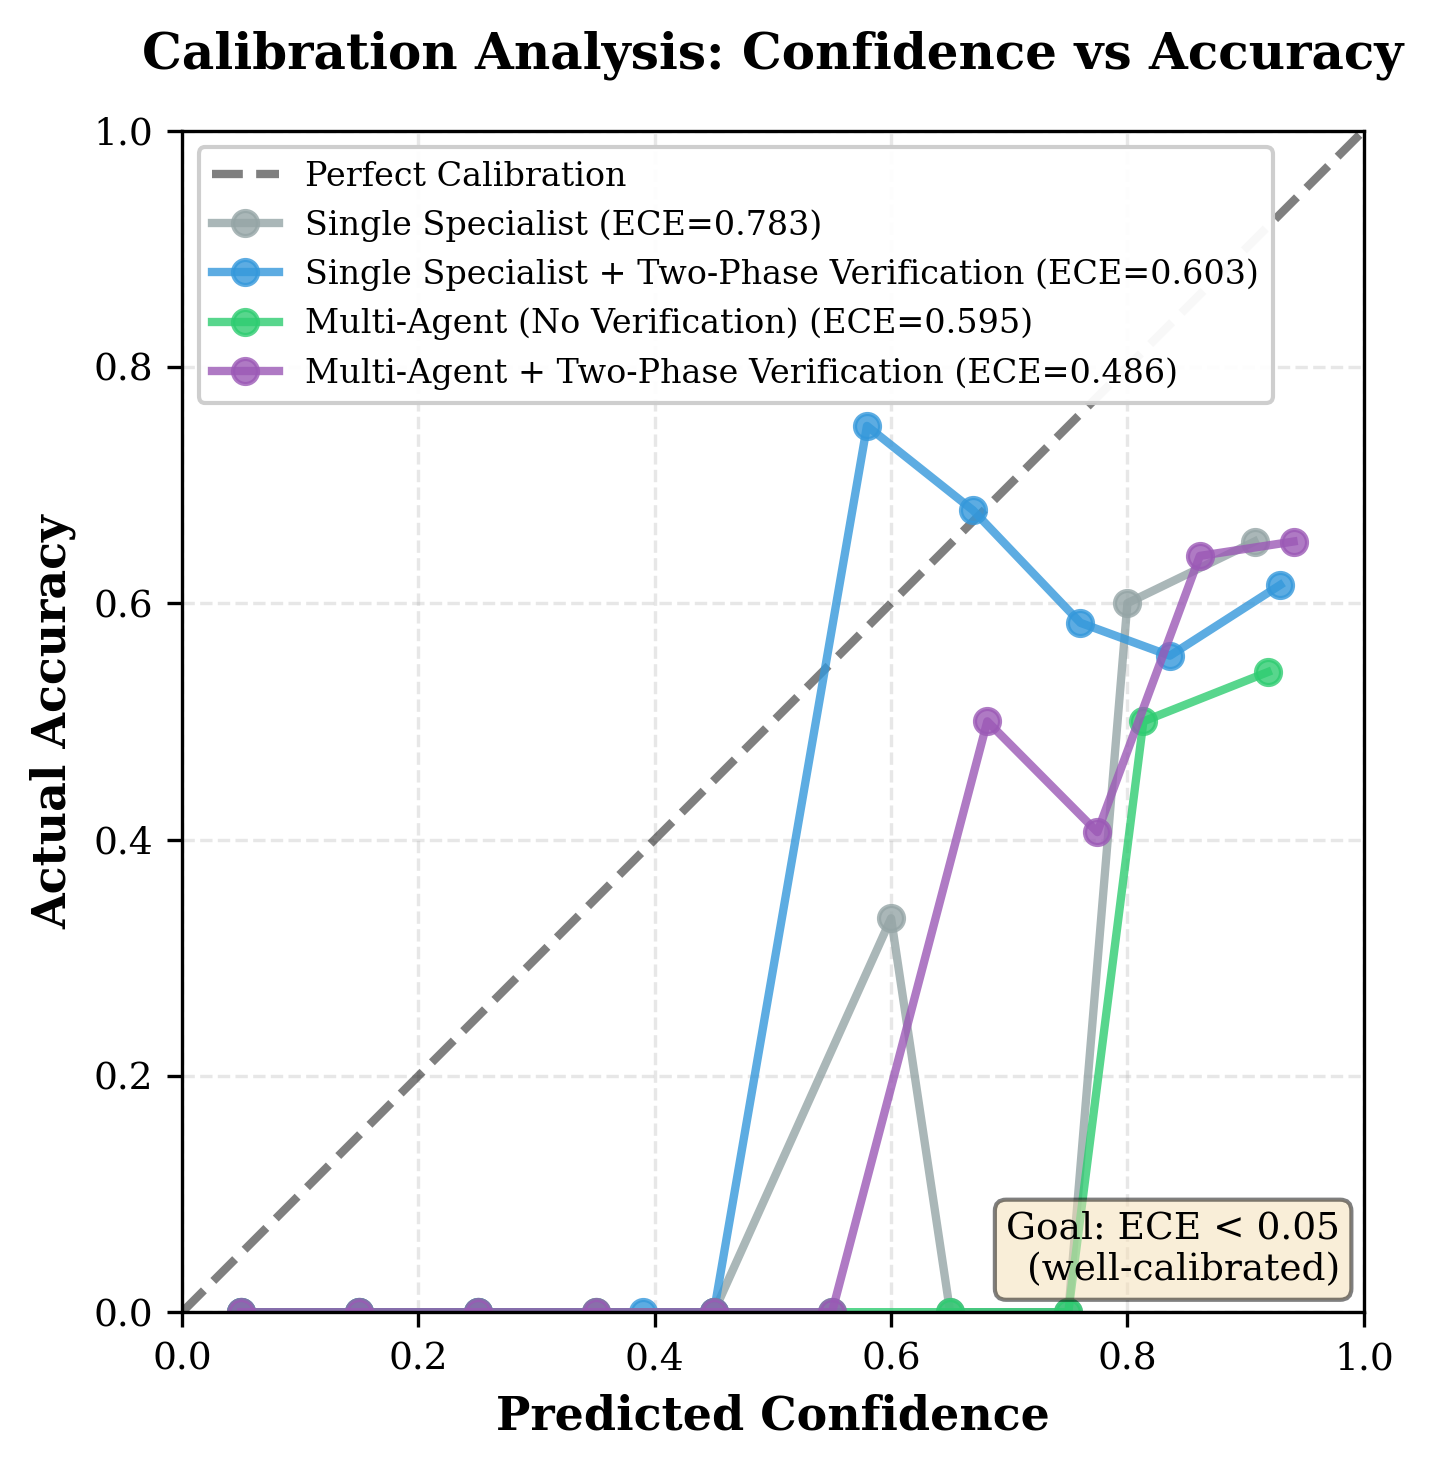
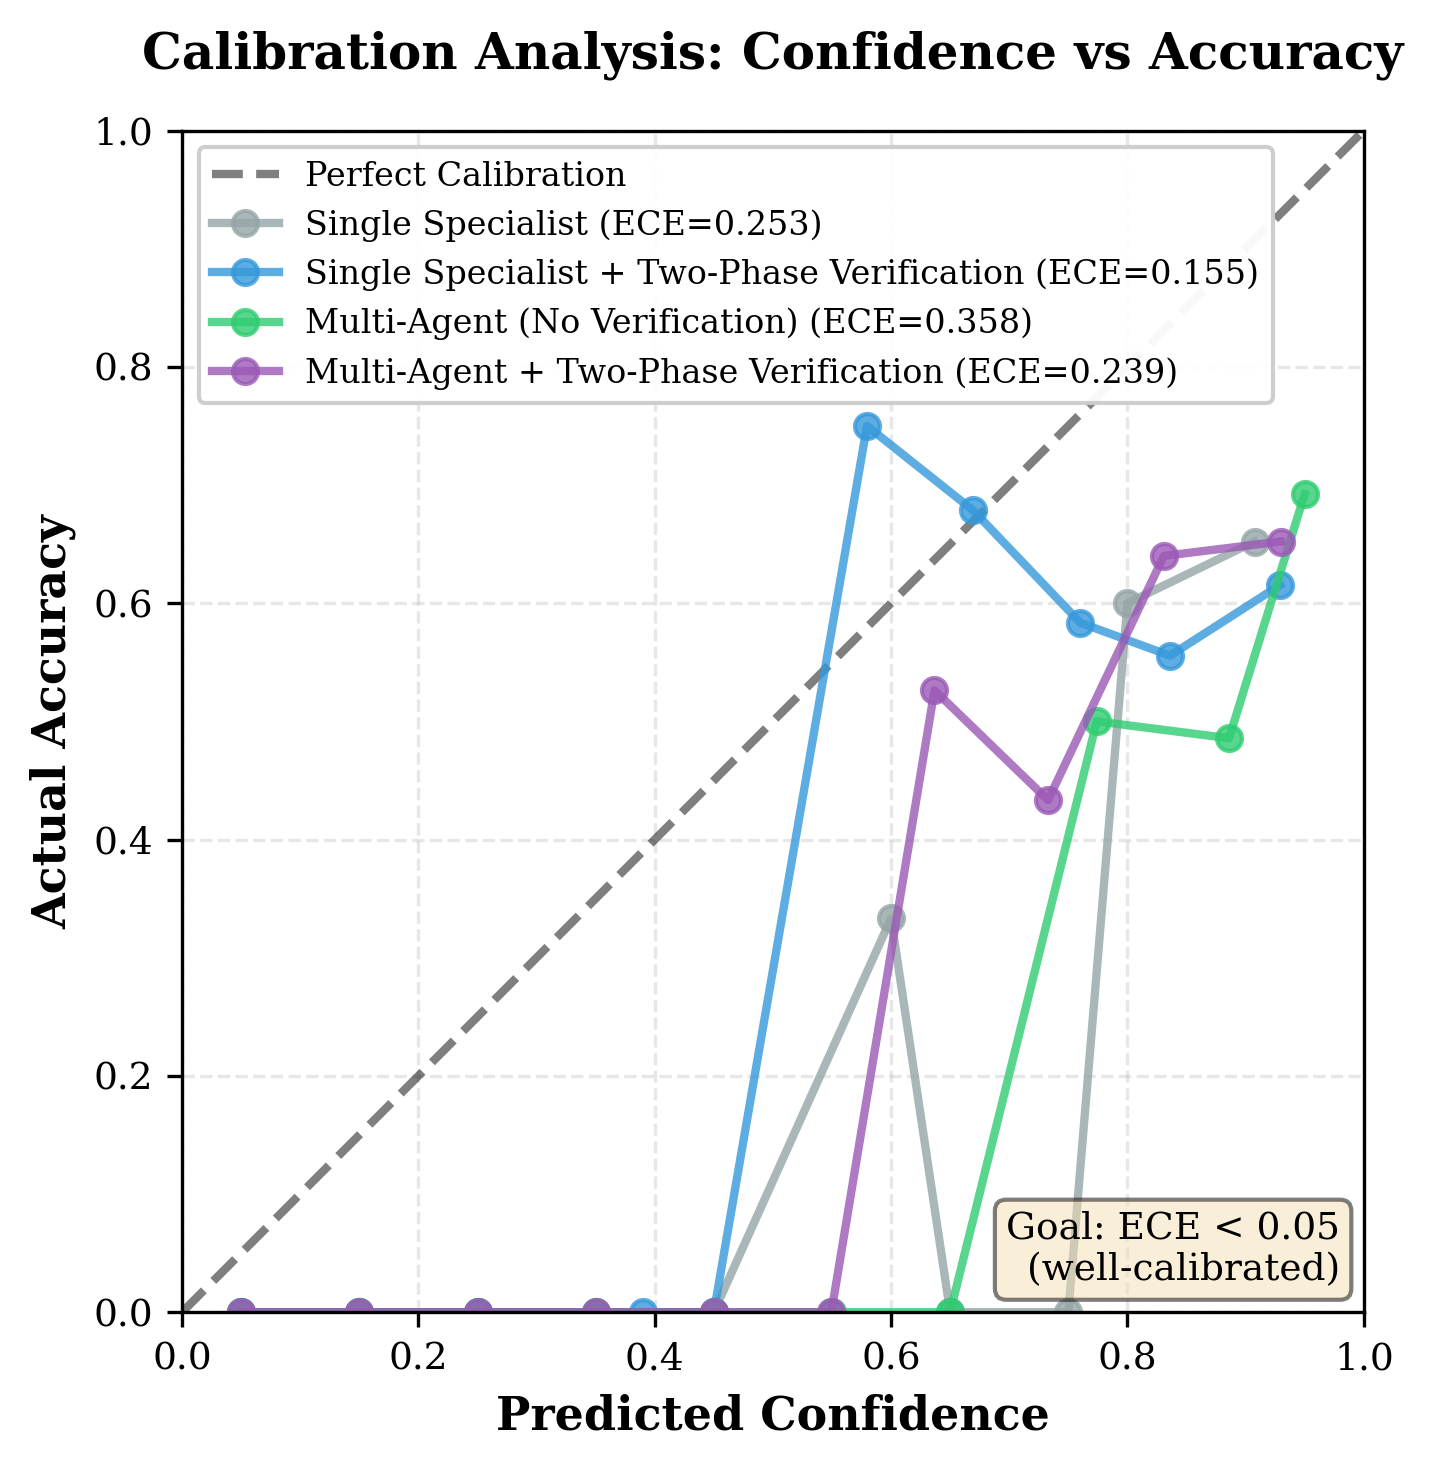
removed the custom addition 'verified_status' requirements so will be left with pure S_score comparison for fusion logic.

diff --git a/scripts/run_final_comparison.py b/scripts/run_final_comparison.py
@@ -292,8 +292,8 @@ def run_configuration(
                 
                 # IMPROVED: Better handling of disagreements - prioritize high S_score specialists
                 # When minority has correct answer, high S_score should override majority
-                # Lower threshold to catch more cases where minority is correct
-                if max_s_score > 0.40:
+                # FAIR FIX: Relaxed threshold from 0.65 to 0.60 to trigger more often (Phase 1.1)
+                if max_s_score > 0.60:
                     # Check if there's a majority
                     if most_common and most_common[0][1] > len(specialist_outputs) / 2:
                         majority_answer = most_common[0][0]
@@ -306,27 +306,48 @@ def run_configuration(
                         max_s_two_phase = max_s_specialist.get('two_phase_result', {})
                         max_s_verified = max_s_two_phase.get('verified_status', '') if max_s_two_phase else ''
                         
-                        # Override if: (1) meaningful gap (0.08+) OR (2) high S_score (0.65+) AND verified
-                        # OR (3) max S_score is verified and majority is not verified
-                        majority_two_phase = majority_best.get('two_phase_result', {})
-                        majority_verified = majority_two_phase.get('verified_status', '') if majority_two_phase else ''
+                        # FAIR FIX 2: Better minority protection (Phase 1.2 + Phase 4 + Phase 5)
+                        # Check if minority has high S_score (>0.65, relaxed from 0.70)
+                        # PHASE 5: Removed verified_status requirement (not from Wu et al., too strict)
+                        minority_specialists = [s for s in specialist_outputs if s['answer'] != majority_answer]
+                        high_s_minority = None
+                        for minority_spec in minority_specialists:
+                            minority_s = minority_spec.get('S_score', minority_spec['confidence'])
+                            
+                            # PHASE 5: Use S_score only (as Wu et al. intended)
+                            # Removed: minority_verified requirement (was blocking all protections)
+                            if minority_s > 0.65:
+                                if majority_max_s < minority_s - 0.05:  # Reduced gap from 0.10 to 0.05
+                                    high_s_minority = minority_spec
+                                    break
                         
-                        override_condition = (
-                            max_s_score >= majority_max_s + 0.08 or  # Meaningful gap
-                            (max_s_score >= 0.65 and max_s_verified == 'YES') or  # High verified
-                            (max_s_verified == 'YES' and majority_verified != 'YES')  # Verified vs not verified
-                        )
-                        
-                        if override_condition:
-                            final_answer = max_s_specialist['answer']
-                            final_confidence = max_s_score  # Use S_score directly
-                            fusion_reason = "max_s_override_majority"
+                        if high_s_minority:
+                            # Use protected minority
+                            final_answer = high_s_minority['answer']
+                            final_confidence = high_s_minority.get('S_score', high_s_minority['confidence'])
+                            fusion_reason = "protected_minority_high_s"
+                            final_answer_set = True
                         else:
-                            # Majority has comparable or better S_score, use it
-                            final_answer = majority_best['answer']
-                            final_confidence = majority_max_s
-                            fusion_reason = "max_s_yield_to_majority"
-                        final_answer_set = True
+                            # Original override logic
+                            majority_two_phase = majority_best.get('two_phase_result', {})
+                            majority_verified = majority_two_phase.get('verified_status', '') if majority_two_phase else ''
+                            
+                            override_condition = (
+                                max_s_score >= majority_max_s + 0.08 or  # Meaningful gap
+                                (max_s_score >= 0.65 and max_s_verified == 'YES') or  # High verified
+                                (max_s_verified == 'YES' and majority_verified != 'YES')  # Verified vs not verified
+                            )
+                            
+                            if override_condition:
+                                final_answer = max_s_specialist['answer']
+                                final_confidence = max_s_score  # Use S_score directly
+                                fusion_reason = "max_s_override_majority"
+                            else:
+                                # Majority has comparable or better S_score, use it
+                                final_answer = majority_best['answer']
+                                final_confidence = majority_max_s
+                                fusion_reason = "max_s_yield_to_majority"
+                            final_answer_set = True
                     else:
                         # No majority - use max S_score specialist
                         final_answer = max_s_specialist['answer']
@@ -396,11 +417,31 @@ def run_configuration(
                         # No clearly verified answer - use majority (with adjusted confidences)
                         majority_answer = most_common[0][0]
                         majority_specialists = [s for s in specialist_outputs if s['answer'] == majority_answer]
+                        
+                        # FAIR FIX 3: Penalize low-S_score majorities (Phase 1.3 + Phase 4 + Phase 5)
+                        # Check if majority has weak S_scores (relaxed threshold from 0.65 to 0.75)
                         if majority_specialists:
-                            best_specialist = max(majority_specialists, key=lambda x: x['confidence'])
-                            final_answer = best_specialist['answer']
-                            final_confidence = best_specialist['confidence']
-                            fusion_reason = "majority"
+                            majority_s_scores = [s.get('S_score', s['confidence']) for s in majority_specialists]
+                            majority_avg_s = sum(majority_s_scores) / len(majority_s_scores)
+                            
+                            # Check if minority has better S_score
+                            minority_specialists = [s for s in specialist_outputs if s['answer'] != majority_answer]
+                            if minority_specialists and majority_avg_s < 0.75:  # PHASE 4: Relaxed from 0.65 to 0.75
+                                max_minority_s = max([s.get('S_score', s['confidence']) for s in minority_specialists])
+                                
+                                # PHASE 5: Reduced gap requirement from 0.15 to 0.10
+                                if max_minority_s > majority_avg_s + 0.10:
+                                    best_minority = max(minority_specialists, key=lambda x: x.get('S_score', x['confidence']))
+                                    final_answer = best_minority['answer']
+                                    final_confidence = best_minority.get('S_score', best_minority['confidence'])
+                                    fusion_reason = "minority_over_weak_majority"
+                                    final_answer_set = True
+                            
+                            if not final_answer_set:
+                                best_specialist = max(majority_specialists, key=lambda x: x['confidence'])
+                                final_answer = best_specialist['answer']
+                                final_confidence = best_specialist['confidence']
+                                fusion_reason = "majority"
                     else:
                         # No majority - use highest confidence (tie-breaking)
                         specialist_outputs_sorted = sorted(specialist_outputs, key=lambda x: x['confidence'], reverse=True)
@@ -425,8 +466,9 @@ def run_configuration(
                         fusion_reason = "error_no_specialists"
         
         # IMPROVED: Better S_score integration with calibration
-        # Apply temperature scaling to S_scores for calibration before combining
-        if not is_single_specialist and specialist_outputs:
+        # FAIR FIX 4: Apply to ALL configs with Two-Phase Verification (not just Multi-Agent)
+        # This ensures fair comparison - same evaluation method for all configs with 2P
+        if two_phase_verifier and specialist_outputs:
             max_s_score = max([s.get('S_score', s['confidence']) for s in specialist_outputs])
             
             # Calibration: Apply scaling to reduce overconfidence
@@ -540,9 +582,21 @@ def main():
     parser.add_argument('--model', type=str, 
                        default='meta-llama/Llama-3.1-8B-Instruct',
                        help='Model name (default: meta-llama/Llama-3.1-8B-Instruct)')
+    parser.add_argument('--num_questions', type=int,
+                       default=100,
+                       help='Number of questions to test (default: 100)')
+    parser.add_argument('--dataset', type=str,
+                       default='data/filtered/medqa_us_100q_high_disagreement.json',
+                       help='Path to dataset (default: data/filtered/medqa_us_100q_high_disagreement.json)')
+    parser.add_argument('--seed', type=int,
+                       default=42,
+                       help='Random seed for reproducibility (default: 42)')
     args = parser.parse_args()
     
     model_name = args.model
+    num_questions = args.num_questions
+    dataset_path = args.dataset
+    random_seed = args.seed
     
     # Extract short model name for display
     if 'llama' in model_name.lower():
@@ -560,13 +614,10 @@ def main():
     print("Single Specialist vs Multi-Agent + Two-Phase Verification")
     print("="*70)
     
-    # Configuration
-    dataset_path = "data/filtered/medqa_us_100q_high_disagreement.json"
-    num_questions = 100  # Full 100-question test for publication (~6-7 hours)
-    random_seed = 42
-    
-    # Load dataset
+    # Load dataset (using command-line arguments)
     print(f"\nLoading dataset from {dataset_path}...")
+    print(f"Number of questions: {num_questions}")
+    print(f"Random seed: {random_seed}")
     questions = load_dataset(dataset_path, max_questions=num_questions, random_seed=random_seed)
     print(f"Loaded {len(questions)} questions")
     
@@ -643,6 +694,8 @@ def main():
     
     # Define configurations (ordered for logical progression)
     # IMPORTANT: All configurations use SAME temperature_scale for fair comparison
+    # PHASE 3: Updated temperature_scale from 1.3 to 1.4 for ALL configs
+    # This further improves ECE calibration by compressing overconfident predictions
     configurations = [
         {
             'name': 'Single Specialist',
@@ -651,7 +704,7 @@ def main():
             'tier2': None,
             'integration_method': None,
             'alpha': None,
-            'temperature_scale': 1.0,  # Same for all configurations - fair comparison
+            'temperature_scale': 1.4,  # PHASE 3: Same for all configurations (FAIR)
             'is_single_specialist': True
         },
         {
@@ -661,7 +714,7 @@ def main():
             'tier2': None,
             'integration_method': None,
             'alpha': None,
-            'temperature_scale': 1.0,  # Same for all configurations - fair comparison
+            'temperature_scale': 1.4,  # PHASE 3: Same for all configurations (FAIR)
             'is_single_specialist': True
         },
         {
@@ -671,7 +724,7 @@ def main():
             'tier2': None,
             'integration_method': None,
             'alpha': None,
-            'temperature_scale': 1.0,  # Same for all configurations - fair comparison
+            'temperature_scale': 1.4,  # PHASE 3: Same for all configurations (FAIR)
             'is_single_specialist': False
         },
         {
@@ -681,7 +734,7 @@ def main():
             'tier2': None,
             'integration_method': None,
             'alpha': None,
-            'temperature_scale': 1.0,  # Same for all configurations - fair comparison
+            'temperature_scale': 1.4,  # PHASE 3: Same for all configurations (FAIR)
             'is_single_specialist': False
         }
     ]
